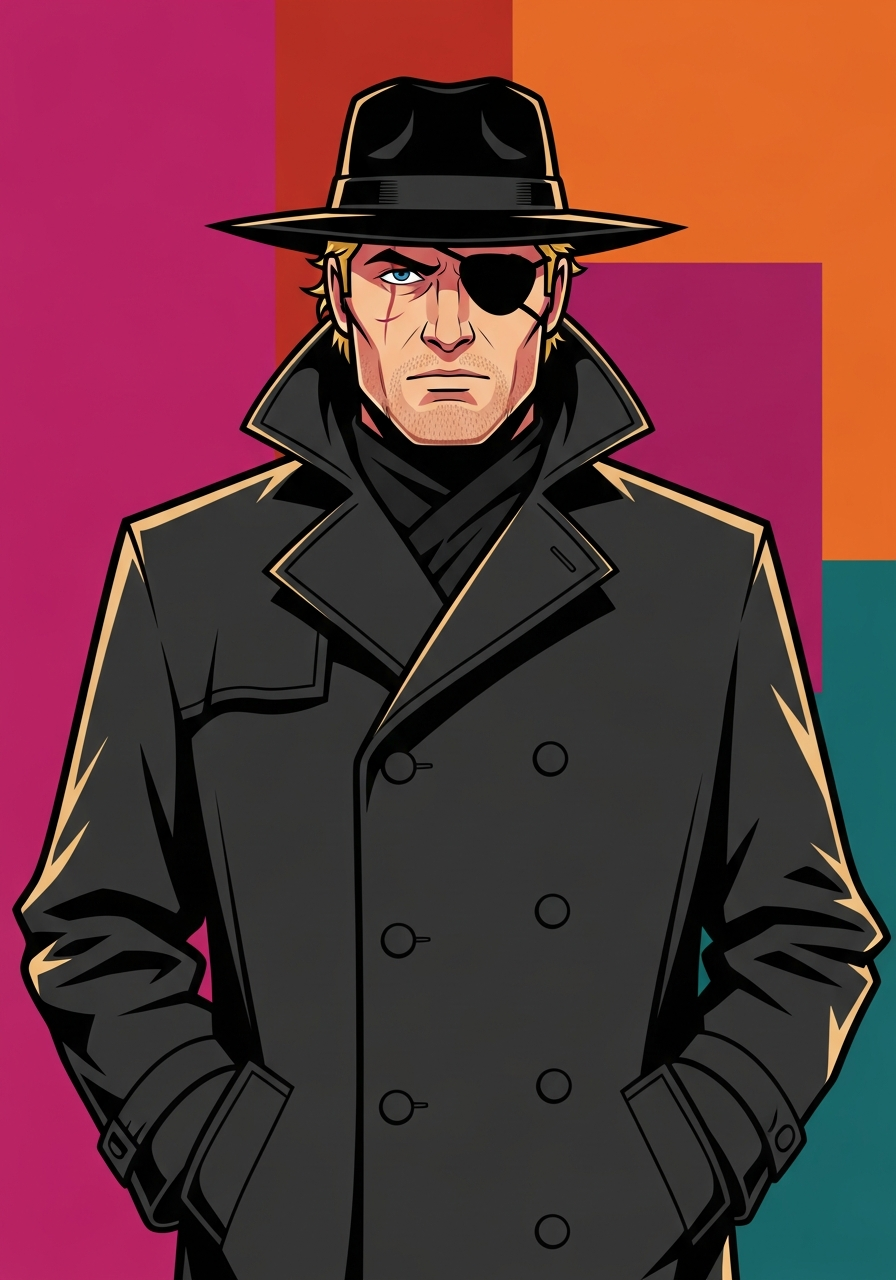
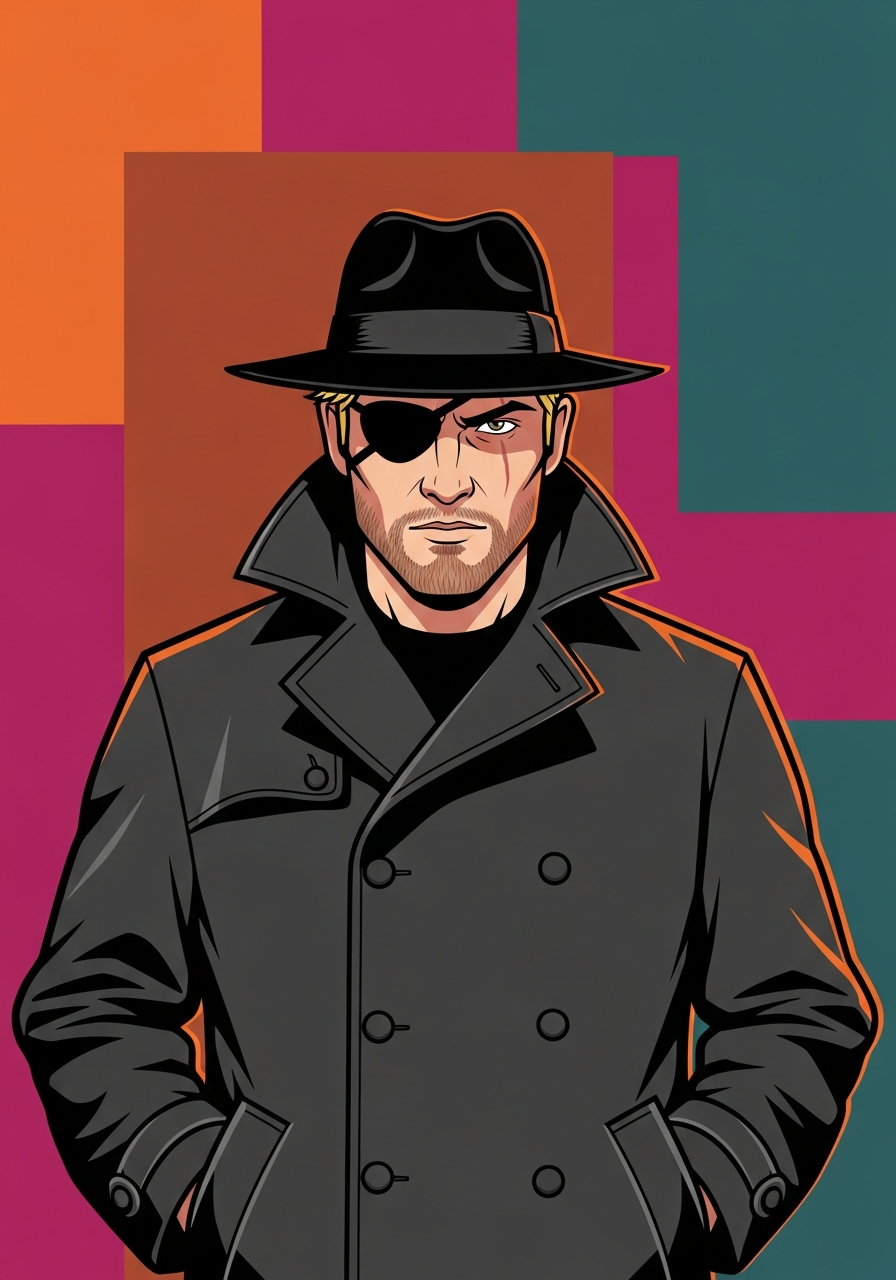
art(agent-x): regen with consistent framing — fix "Agent X is bigger" perception
Old asset framed the figure tight to the top of the canvas: fedora
reached the very top edge with no background headroom. The other
operatives (Dash, Vera, Sable, Janet, Neal) all sit with ~10-20% of
canvas height as background ABOVE the hair / head. In the hand fan
all card slots are identically sized via .stagedSlot/.slot
(aspect-ratio: 5/7 + flex), so Agent X's tightly-framed figure read
as "bigger" than the others — the slot was the same, but the visual
subject filled more of the frame.

Regen prompt adds explicit framing instructions:
- "wide framing with the figure occupying the lower three-quarters
  of the canvas"
- "leave significant background headroom above the hat"
- "twelve to fifteen percent of the canvas above the top of the
  fedora is geometric background NOT figure"
- "figure does NOT touch the top edge of the frame"

Same Slater-style character: eye patch, fedora, charcoal trench coat
collar up, magenta + orange + teal Saul Bass blocks. Only the framing
changes.

Old assets archived to:
- public/assets/cards/_archive/agent-x-2026-04-27-frame-too-tight.webp
- public/assets/roster/_archive/agent-x-2026-04-27-frame-too-tight.png

Pipeline: temp/roster/agent-x.png → public/assets/roster/agent-x.png
→ process-assets.ts (sharp, lanczos3, webp q80) → public/assets/cards/agent-x.webp.
Output dimensions unchanged (269x384). Awaiting on-phone visual
confirmation in hand fan.

diff --git a/projects/burned/scripts/regen-agent-x.ts b/projects/burned/scripts/regen-agent-x.ts
@@ -33,6 +33,18 @@ const PROMPT =
   'hands partly in trench coat pockets, posture of someone who has killed people quietly and professionally, ' +
   'he looks like he could be friend or foe you genuinely cannot tell, wild card operative, ' +
   'rich magenta burnt orange and teal background with bold geometric shapes, Saul Bass style abstract rectangles, ' +
+  // Framing match: other operatives (Dash, Vera, Sable, Janet, Neal) all
+  // sit with visible background headroom above the hair / head. Without
+  // this instruction Imagen frames Agent X tight to the top because
+  // "fedora pulled low" + "trench coat collar high" reads as a vertical
+  // subject and the model fills the canvas. Result: in the hand fan, the
+  // figure looks larger than the operatives even though the card slots
+  // are identical-sized. Keep ~12-15% of canvas height as background
+  // ABOVE the hat — same visual breathing room as the other operatives.
+  'wide framing with the figure occupying the lower three-quarters of the canvas, ' +
+  'leave significant background headroom above the hat, ' +
+  'twelve to fifteen percent of the canvas above the top of the fedora is geometric background NOT figure, ' +
+  'figure does NOT touch the top edge of the frame, ' +
   'half-body portrait cartoon illustration, flat color not grayscale, ' +
   NO_TEXT;
 
